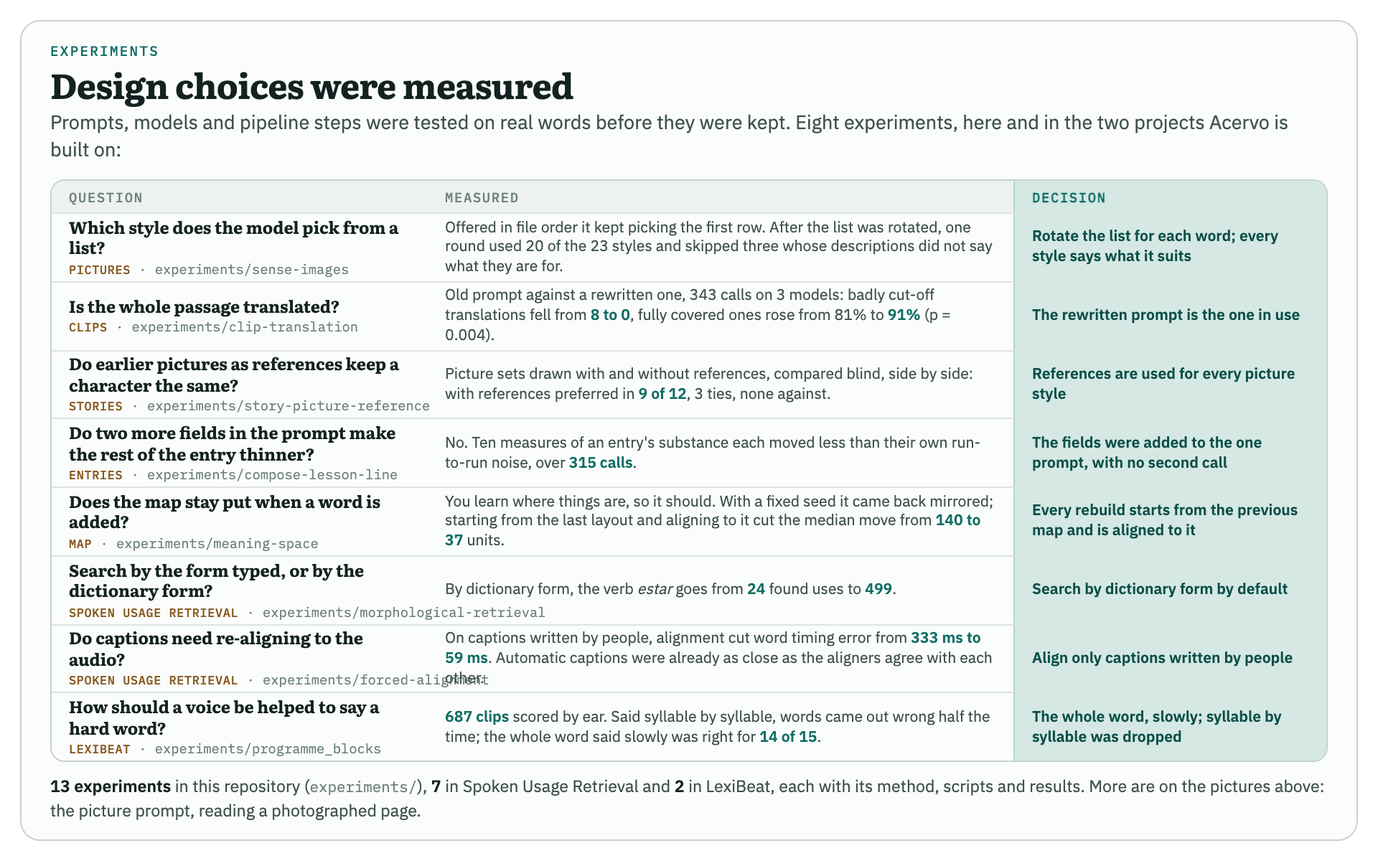
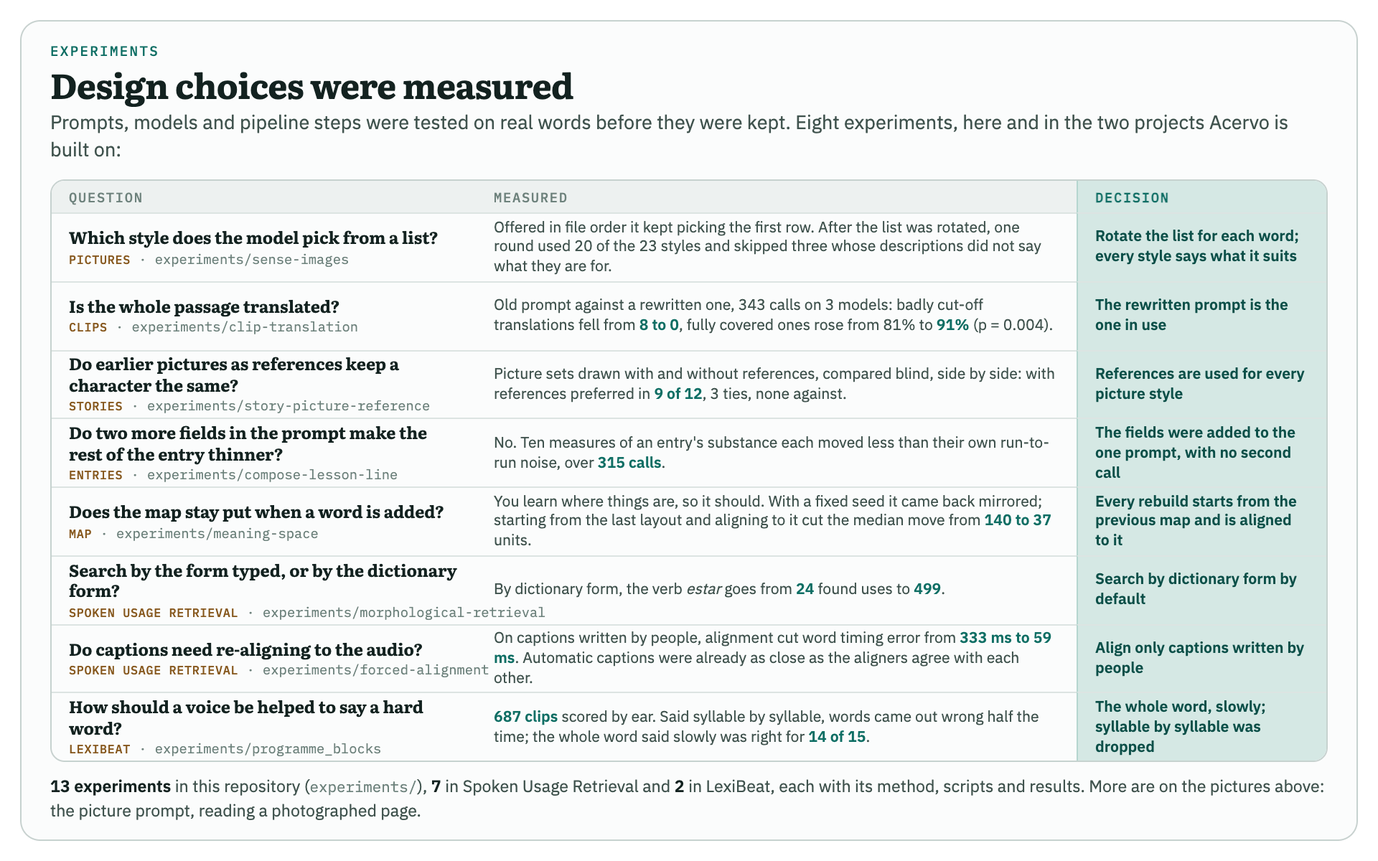
Tighten seven README pictures after a third review
- Lead: a narrower entry window, "Generated, then yours" restored with a neutral any-language-to-any-language mark instead of the author's language pairs.
- Anki: the settings capture and the closing note are gone; the cards are larger and the route is one vertical chain with cards out and reviews back.
- Map: the four steps of how it is made are back, with normal spacing, under a slightly shorter whole-map inset.
- Experiments: a narrower decision column, so no experiment path overflows.
- Photo drops the sentence about thresholds; loop rebalances its two text columns; the server diagram draws its device arrows in the style of the others.

diff --git a/assets/pictures/anki.html b/assets/pictures/anki.html
@@ -2,7 +2,7 @@
 <!--
   Source of anki.png. shots/anki-front.png and shots/anki-back.png are one card rendered by
   scripts/preview_anki_cards.py from anki/manifest.json, which holds one of the owner's words as
-  the server would send it. shots/anki-settings.png is Settings, Anki. The diagram follows
+  the server would send it. The diagram follows
   docs/features/anki.md.
   Render with capture.mjs --compose anki.
 -->
@@ -12,6 +12,17 @@
 <meta name="picture-size" content="960x600">
 <title>Anki cards</title>
 <link rel="stylesheet" href="style.css">
+<style>
+.tri { display: flex; flex-direction: column; gap: 8px; padding: 12px; }
+.tri .b { background: var(--surface); border: 1px solid var(--rule); border-radius: 7px; padding: 7px 10px 8px; font-size: 11px; line-height: 1.34; color: var(--ink-2); }
+.tri .b b { display: block; font-size: 12.4px; color: var(--ink); font-weight: 600; }
+.tri .b.top { border-color: var(--core); }
+.legs { display: flex; gap: 12px; padding: 0 4px; }
+.legs > div { flex: 1 1 0; display: flex; gap: 8px; align-items: flex-start; font-size: 11.2px; line-height: 1.36; color: #0B4F48; }
+.legs.one > div { align-items: center; }
+.legs b { color: #083E38; font-weight: 600; }
+.legs .arrow { align-self: flex-start; font-size: 20px; }
+</style>
 </head>
 <body>
 <div class="frame">
@@ -21,22 +32,21 @@
     <span class="sub">Cards are built from your entries and sent to Anki a minute after you stop editing. You review in any Anki app; how well you know each word comes back.</span>
   </div>
   <div class="main">
-    <div class="col" style="gap: 6px; width: 190px"><span class="label">Front</span><div class="device" style="width: 190px"><img src="shots/anki-front.png" alt=""></div></div>
-    <div class="col" style="gap: 6px; width: 190px"><span class="label">Back</span><div class="device" style="width: 190px"><img src="shots/anki-back.png" alt=""></div></div>
-    <div class="col grow" style="gap: 11px">
+    <div class="col" style="gap: 6px; width: 214px"><span class="label">Front</span><div class="device" style="width: 214px"><img src="shots/anki-front.png" alt=""></div></div>
+    <div class="col" style="gap: 6px; width: 214px"><span class="label">Back</span><div class="device" style="width: 214px"><img src="shots/anki-back.png" alt=""></div></div>
+    <div class="col grow" style="gap: 8px">
       <span class="label">How the cards travel</span>
-      <div class="lane server">
-        <div class="flow">
-          <div class="b"><b>Acervo</b>your entries, pictures and recordings</div>
-          <span class="a">→<br>←</span>
-          <div class="b"><b>Anki sync server</b>Anki's own, running beside Acervo on your machine</div>
-          <span class="a">⇄</span>
-          <div class="b"><b>Anki on your phone or tablet</b>syncs as it always does</div>
+      <div class="lane server tri">
+        <div class="b top"><b>Acervo</b>your entries, pictures and recordings</div>
+        <div class="legs">
+          <div><span class="arrow">↓</span><span><b>Cards out.</b> A card for each meaning, with its sentence, picture and recordings, updated a minute after the entry changes.</span></div>
+          <div><span class="arrow">↑</span><span><b>Reviews back.</b> Every hour, Anki's memory of each card, so the word list can show which words are hardest.</span></div>
         </div>
-        <div style="margin-top: 7px; font-size: 11.2px; color: #0B4F48"><b>→ Cards out:</b> a card for each meaning, with its sentence, picture and recordings, updated when the entry changes.<br><b>← Reviews back:</b> every hour, Anki's memory state for each card, so the word list can show which words are hardest.</div>
+        <div class="b"><b>Anki sync server</b>Anki's own, running beside Acervo on your machine</div>
+        <div class="legs one"><div><span class="arrow" style="transform: rotate(90deg)">⇄</span><span>Anki syncs as it always does.</span></div></div>
+        <div class="b"><b>Anki on your phone or tablet</b>where you review</div>
       </div>
-      <div class="win crop" style="height: 176px"><img src="shots/anki-settings.png" style="width: 560px; margin: -122px 0 0 -30px" alt=""></div>
-      <div class="note">Content goes one way and statistics the other, never both: your review progress is never touched, and Anki never edits an entry.</div>
+      <div style="font-size: 11.6px; color: var(--ink-2)">Content goes one way and statistics the other: your review progress is never touched, and Anki never edits an entry.</div>
     </div>
   </div>
   <div class="foot">Scheduling stays with Anki and its FSRS scheduler. No desktop needs to be running: the server keeps the cards in step by itself.</div>

diff --git a/assets/pictures/word.html b/assets/pictures/word.html
@@ -1,7 +1,7 @@
 <!doctype html>
 <!--
-  Source of word.png. shots/word-window.png is the application on one of the owner's words, in a narrow window, with
-  the picture drawn a little smaller than the application draws it and the search row cropped off;
+  Source of word.png. shots/word-window.png is the application on one of the owner's words, in a window narrower than the application's wide layout expects, with
+  the picture drawn a little smaller than the application draws it which is the layout a narrow window gets, without the search row;
   shots/word-list.png is the list behind it. The tiles are the pictures of the word's three senses
   with the emoji the entry gives each, the style each was drawn in, and a one-word label added
   here (the entry has none for this word). The experiment counts are the rows of
@@ -16,14 +16,15 @@
 <title>A dictionary of your own words</title>
 <link rel="stylesheet" href="style.css">
 <style>
-.stack { flex: none; position: relative; width: 540px; }
-.langs { display: flex; flex-wrap: wrap; gap: 4px; margin-bottom: 6px; }
+.stack { flex: none; position: relative; width: 478px; }
+.langs { display: flex; align-items: center; gap: 7px; margin-bottom: 7px; }
+.langs b { color: var(--core); }
 .langs span { background: var(--surface); border: 1px solid #B5D6CF; border-radius: 20px; padding: 1px 7px; font-size: 10.4px; white-space: nowrap; color: #083E38; }
 .stack .back { position: absolute; left: 0; top: 30px; width: 300px; height: 300px; }
 .stack .back img { width: 440px; max-width: none; }
-.stack .front { position: absolute; left: 126px; top: 0; width: 414px; box-shadow: 0 2px 4px rgba(19,34,32,.10), 0 16px 34px -14px rgba(19,34,32,.55); }
-.stack .front .clip { height: 378px; overflow: hidden; }
-.stack .front .clip img { width: 414px; margin-top: -31px; }
+.stack .front { position: absolute; left: 126px; top: 0; width: 352px; box-shadow: 0 2px 4px rgba(19,34,32,.10), 0 16px 34px -14px rgba(19,34,32,.55); }
+.stack .front .clip { height: 409px; overflow: hidden; }
+.stack .front .clip img { width: 352px; margin-top: 0; }
 .m3 { flex: 1 1 0; min-width: 0; }
 .m3 .sense { margin-top: 5px; font-size: 8.8px; white-space: nowrap; }
 .m3 .g { font: 400 10.6px/1.3 var(--serif); color: var(--ink); margin-top: 2px; }
@@ -42,13 +43,13 @@
       <div class="win front crop"><div class="bar"><i></i><i></i><i></i><span>Acervo</span></div><div class="clip"><img src="shots/word-window.png" alt=""></div></div>
     </div>
     <div class="col grow" style="gap: 9px">
-      <span class="label">Three meanings, a picture for each</span>
+      <span class="label">Three meanings, and a picture for each</span>
       <div class="row" style="gap: 8px">
         <div class="m3"><span class="pic"><img src="shots/word-sense-1.png" alt=""><span class="hash">claymation</span></span><div class="sense">🔔 <span class="num">01</span> sound</div><div class="g">to ring, to go off</div></div>
         <div class="m3"><span class="pic"><img src="shots/word-sense-2.png" alt=""><span class="hash">manga-panel</span></span><div class="sense">🧠 <span class="num">02</span> memory</div><div class="g">to ring a bell, to sound familiar</div></div>
         <div class="m3"><span class="pic"><img src="shots/word-sense-3.png" alt=""><span class="hash">retro-futurism</span></span><div class="sense">💡 <span class="num">03</span> impression</div><div class="g">to sound, to seem</div></div>
       </div>
-      <div class="note fact"><span class="label">Any language to any other</span><div class="langs"><span>🇪🇸 Spanish → English</span><span>🇬🇧 English → Russian</span><span>🇨🇳 Chinese → English</span></div>These three are the author's. Entries are written for your level and to your own standing instructions; you review, edit, or ask for changes in the chat.</div>
+      <div class="note fact"><span class="label">Generated, then yours</span><div class="langs"><span>🌐 any language</span><b>→</b><span>🌐 any language</span></div>All the content is generated: entries are written for your level and to your own standing instructions. You review each one, edit it, or ask for changes in the chat under it.</div>
       <div class="note"><span class="label">From the same words</span>
         <ul class="feat">
           <li>recordings</li><li>clips of native speech</li>

diff --git a/assets/pictures/sync.html b/assets/pictures/sync.html
@@ -14,7 +14,9 @@
 .b1 { background: var(--surface); border: 1px solid var(--rule); border-radius: 7px; padding: 6px 9px 7px; font-size: 10.8px; line-height: 1.34; color: var(--ink-2); }
 .b1 b { display: block; font-size: 11.8px; color: var(--ink); font-weight: 600; }
 .b1.main1 { width: 200px; border-color: var(--core); }
-.wires { display: flex; justify-content: space-around; font: 500 10.4px var(--mono); letter-spacing: .04em; color: var(--core); padding: 2px 0; }
+.wires { display: flex; justify-content: center; align-items: center; gap: 16px; font-size: 11.6px; color: var(--ink-2); }
+.wires span:first-child { width: 250px; text-align: right; }
+.wires span:last-child { width: 250px; }
 .dev { flex: 1 1 0; min-width: 0; min-height: 150px; border: 1px solid var(--rule); border-radius: 12px; background: var(--paper); padding: 12px 11px 11px; font-size: 10.8px; line-height: 1.34; color: var(--ink-2); display: flex; flex-direction: column; gap: 2px; }
 .dev b { font-size: 12.4px; color: var(--ink); font-weight: 600; }
 .dev .ic { font-size: 20px; line-height: 1.1; }
@@ -31,7 +33,7 @@
     <span class="sub">The server keeps the dictionary and does the generating. Each device holds a complete copy, so everything opens with no connection.</span>
   </div>
   <div class="main">
-    <div class="col grow" style="gap: 18px">
+    <div class="col grow" style="gap: 14px">
       <div class="row" style="gap: 12px; align-items: stretch">
         <div class="lane" style="width: 190px"><span class="label">Called by the server</span><div class="col" style="gap: 6px">
           <div class="b1"><b>Model providers</b>language, image and speech models, in an order you set</div>
@@ -48,7 +50,7 @@
           </div>
         </div>
       </div>
-      <div class="wires"><span>changes pulled as they happen ↓</span><span>↑ a save is one request, online only</span></div>
+      <div class="wires"><span>changes are pulled as they happen</span><span class="arrow" style="transform: rotate(90deg)">⇄</span><span>a save is one request, online only</span></div>
       <div class="row" style="gap: 12px">
         <div class="dev"><span class="ic">📱</span><b>Phone</b>installed web app, Android or iOS<span class="copy">complete copy</span></div>
         <div class="dev"><span class="ic">📲</span><b>Tablet</b>installed web app<span class="copy">complete copy</span></div>

diff --git a/assets/pictures/loop.html b/assets/pictures/loop.html
@@ -31,7 +31,7 @@ ul.feat.one li { padding-left: 13px; text-indent: -13px; }
       <div class="device back"><img src="shots/loops.png" alt=""></div>
       <div class="device front"><img src="shots/loop.png" alt=""></div>
     </div>
-    <div class="col" style="width: 262px; gap: 11px">
+    <div class="col" style="width: 222px; gap: 11px">
       <span class="label">Kinds of loop</span>
       <div class="note">
         <ul class="feat one" style="gap: 5px">
@@ -49,7 +49,7 @@ ul.feat.one li { padding-left: 13px; text-indent: -13px; }
       <div class="note"><span class="label">The words</span>You choose them: a topic, a selection from the list or the map, or a number of words.</div>
       <div class="note"><span class="label">The voice</span>Expressive on purpose, so a word sticks. Said three times, it is three recordings, each with its own direction from a language model.</div>
       <div class="note"><span class="label">The music</span>Generated new for every loop, in a style you pick or a surprise: a rhythmic background made to sit under speech. Keep one you like and reuse it.</div>
-      <div class="note fact"><span class="label">Chosen by ear, with scores</span><b>687 clips</b> scored 1 to 5 on a tablet: drill rhythms, examples, stories, commentary, voices mixing languages, ways to say a hard word. Stories and commentary scored highest (4.3, 4.6). Asked to speak “fast”, a voice is about 1.3× quicker; a fancier direction is as often slower, so speed is set by stretching the audio.<span class="exp">lexibeat · experiments/programme_blocks</span></div>
+      <div class="note fact"><span class="label">Chosen by ear, with scores</span><b>687 clips</b> scored 1 to 5 on a tablet: rhythms, examples, stories, commentary, voices. Stories and commentary scored highest (4.3, 4.6). Asked to speak “fast”, a voice is about 1.3× quicker; a fancier direction is as often slower, so speed is set by stretching the audio.<span class="exp">lexibeat · experiments/programme_blocks</span></div>
     </div>
   </div>
   <div class="foot">A translation is never drawn before it has been spoken, and dragging backwards puts it away again.</div>

diff --git a/assets/pictures/map.html b/assets/pictures/map.html
@@ -21,14 +21,15 @@
   </div>
   <div class="main">
     <div class="win" style="width: 560px; align-self: flex-start"><img src="shots/map.png" alt=""></div>
-    <div class="col grow" style="gap: 8px">
+    <div class="col grow" style="gap: 10px">
       <span class="label">The whole map: 1,457 meanings in named regions</span>
-      <div class="win crop" style="height: 224px"><img src="shots/map-whole.png" style="width: 800px; margin: -148px 0 0 -262px" alt=""></div>
-      <span class="label" style="margin-top: 2px">How it is made</span>
-      <div class="steps" style="gap: 4px">
-        <div><i>1</i><span><b>Embed each meaning</b>, not each word, with a multilingual encoder (multilingual-e5-small).</span></div>
+      <div class="win crop" style="height: 186px"><img src="shots/map-whole.png" style="width: 800px; margin: -178px 0 0 -262px" alt=""></div>
+      <span class="label" style="margin-top: 4px">How it is made</span>
+      <div class="steps" style="gap: 8px">
+        <div><i>1</i><span><b>Embed each meaning</b>, not each word: its definition and translations, with a multilingual encoder (multilingual-e5-small).</span></div>
         <div><i>2</i><span><b>Lay out</b> in two dimensions with UMAP.</span></div>
-        <div><i>3</i><span><b>Group</b> into about 8 regions and 30 neighbourhoods; a language model <b>names</b> them.</span></div>
+        <div><i>3</i><span><b>Group</b> the layout into about 8 regions and 30 neighbourhoods (Ward clustering).</span></div>
+        <div><i>4</i><span><b>Name</b> them with one language-model call.</span></div>
       </div>
     </div>
   </div>

diff --git a/assets/pictures/experiments.html b/assets/pictures/experiments.html
@@ -13,7 +13,7 @@
 <title>Design choices were measured</title>
 <link rel="stylesheet" href="style.css">
 <style>
-.t { flex: 1 1 auto; display: grid; grid-template-columns: 262px 1fr 218px; grid-template-rows: 22px repeat(8, 1fr); border: 1px solid var(--rule); border-radius: 10px; overflow: hidden; }
+.t { flex: 1 1 auto; display: grid; grid-template-columns: 296px 1fr 174px; grid-template-rows: 22px repeat(8, 1fr); border: 1px solid var(--rule); border-radius: 10px; overflow: hidden; }
 .t > div { padding: 0 12px; display: flex; flex-direction: column; justify-content: center; border-top: 1px solid var(--rule-soft); font-size: 10.6px; line-height: 1.32; min-width: 0; color: var(--ink-2); }
 .t > .th { border-top: 0; background: var(--paper); font: 500 9.4px var(--mono); letter-spacing: .09em; text-transform: uppercase; color: var(--ink-3); }
 .t .q { font: 700 11.6px/1.25 var(--serif); color: var(--ink); }

diff --git a/assets/pictures/photo.html b/assets/pictures/photo.html
@@ -51,7 +51,7 @@
         <div class="opt"><div class="q">The meaning of the tap</div><p class="yes">A fast language model: 1.0 s; right word or phrase 85% exactly, 98% nearly</p><p>A more accurate model: 4.4 s, too slow for a tap</p></div>
         <span class="exp" style="margin-top: 8px">experiments/photo-capture</span>
       </div>
-      <div style="font-size: 11.4px; color: var(--ink-2)">Thresholds were set before measuring: 13 photos and screenshots of Spanish text, 59 taps checked by hand.</div>
+      <div style="font-size: 11.4px; color: var(--ink-2)">Measured on 13 photos and screenshots of Spanish text, with 59 taps checked by hand.</div>
     </div>
   </div>
   <div class="foot">Where the words are comes from the OCR engine; what they mean comes from the language model. A multimodal model's boxes are approximate and its text can be invented, so it is given neither job.</div>

diff --git a/README.md b/README.md
@@ -2,7 +2,7 @@
 
 Acervo is a personal dictionary of the words you chose to learn. Paste a word, or the sentence you met it in: the entry is written for you, with a picture for each meaning, a recording, and clips of native speakers saying it. You read it before it is saved. From the same words it makes audio loops, illustrated stories and a map of what you know. It is self-hosted, and every device keeps the whole vocabulary, so it reads offline.
 
-![A dictionary of the words you chose, written and illustrated for you. The application in a macOS window, open on the Spanish verb "sonar" over the list of words: its pronunciation, its first definition, the translations "to ring, to sound, to go off", a picture of a ringing red telephone, the sentence it was met in with its translation, and a box to ask about the entry. Beside it, the word's three meanings, each with its emoji and a picture carrying the style it was drawn in: to ring, in claymation; to ring a bell, as a manga panel; to seem, in retro-futurism. Everything in an entry is generated, so the dictionary can go from any language to any other, at your level; the author's are Spanish to English, English to Russian and Chinese to English. Entries follow your own standing instructions, and you review, edit, or ask for changes in the chat. From the same words: recordings, clips of native speech, audio loops, illustrated stories, a map of meanings, words from a photo, Anki cards, offline on every device. Measured in 13 experiments in this repository, 7 in Spoken Usage Retrieval, which finds the clips, and 2 in LexiBeat, which makes the loops.](assets/pictures/word.png)
+![A dictionary of the words you chose, written and illustrated for you. The application in a macOS window, open on the Spanish verb "sonar" over the list of words: its pronunciation, its first definition, the translations "to ring, to sound, to go off", a picture of a ringing red telephone, the sentence it was met in with its translation, and a box to ask about the entry. Beside it, the word's three meanings, each with its emoji and a picture carrying the style it was drawn in: to ring, in claymation; to ring a bell, as a manga panel; to seem, in retro-futurism. Everything in an entry is generated, so the dictionary can go from any language to any other, at your level. All the content is generated, to your own standing instructions, and you review each entry, edit it, or ask for changes in the chat under it. From the same words: recordings, clips of native speech, audio loops, illustrated stories, a map of meanings, words from a photo, Anki cards, offline on every device. Measured in 13 experiments in this repository, 7 in Spoken Usage Retrieval, which finds the clips, and 2 in LexiBeat, which makes the loops.](assets/pictures/word.png)
 
 No model is trained here. The work is in deciding where a model is trusted and where it is checked, and each of those decisions was measured: [`docs/ml.md`](docs/ml.md) is the tour, and [`experiments/`](experiments/README.md) holds the apparatus and the results.
 
@@ -14,7 +14,7 @@ Paste a sentence and the word is picked out of it; a word you already hold is re
 
 Or photograph a page and tap a word. An OCR engine says where the words are, a segmentation model says where the sentences end, and a fast language model says what the tapped word means in that sentence. See [photo capture](docs/features/photo-capture.md).
 
-![Photograph a page, tap a word, see what it means there. A phone showing a photographed book page with the word "otorgó" outlined and its sentence highlighted, and below it "otorgar: awarded, granted" with the whole sentence as it will be kept. How it works: take a photo; every word becomes tappable because the OCR engine returns each word with its outline; tap any word and its sentence is found; the meaning in that sentence appears in about a second, and Add keeps the word, the sentence and the photo. In the entry the sentence then carries the photo it came from, drawn here for the same page. Each part was chosen by experiment, with thresholds set before measuring, on 13 photos and screenshots of Spanish text with 59 taps checked by hand. Reading the page: Cloud Vision, chosen, put the right word under the tap 98% of the time and was tappable in 1.6 to 1.9 seconds; RapidOCR, a local model, 80% (68% on book photos) and 7.5 seconds. Finding the sentence: the SaT segmentation model, chosen, 98%; punctuation rules 69 to 74%. The meaning of the tap: a fast language model, chosen, in 1.0 second, right 85% exactly and 98% nearly; a more accurate one took 4.4 seconds.](assets/pictures/photo.png)
+![Photograph a page, tap a word, see what it means there. A phone showing a photographed book page with the word "otorgó" outlined and its sentence highlighted, and below it "otorgar: awarded, granted" with the whole sentence as it will be kept. How it works: take a photo; every word becomes tappable because the OCR engine returns each word with its outline; tap any word and its sentence is found; the meaning in that sentence appears in about a second, and Add keeps the word, the sentence and the photo. In the entry the sentence then carries the photo it came from, drawn here for the same page. Each part was chosen by experiment, on 13 photos and screenshots of Spanish text with 59 taps checked by hand. Reading the page: Cloud Vision, chosen, put the right word under the tap 98% of the time and was tappable in 1.6 to 1.9 seconds; RapidOCR, a local model, 80% (68% on book photos) and 7.5 seconds. Finding the sentence: the SaT segmentation model, chosen, 98%; punctuation rules 69 to 74%. The meaning of the tap: a fast language model, chosen, in 1.0 second, right 85% exactly and 98% nearly; a more accurate one took 4.4 seconds.](assets/pictures/photo.png)
 
 ## What is made around a word
 
@@ -44,7 +44,7 @@ A story is written around a handful of words, in a kind you pick or leave to cha
 
 Every meaning is embedded from its definition and translations, laid out in two dimensions, and grouped into regions that a model names. See [the meaning map](docs/features/meaning-map.md).
 
-![Every meaning you hold, laid out by what it means. The map zoomed in on "la deuda", joined to "el préstamo", "cobrar", "garpar", "la cuenta" and "el fondo", with a card giving its definition; and the whole map of 1,457 meanings with its named regions, such as "Dinero y justicia" and "Emociones y conflicto". How it is made: each meaning, not each word, is embedded with a multilingual encoder; UMAP lays the meanings out in two dimensions; they are grouped into about 8 regions and 30 neighbourhoods, which a language model names. You learn where things are on a map, so adding a word should not move the rest: with a fixed seed it still moved, and starting from the last layout and aligning to it cut the median move after one edit from 140 to 37 units.](assets/pictures/map.png)
+![Every meaning you hold, laid out by what it means. The map zoomed in on "la deuda", joined to "el préstamo", "cobrar", "garpar", "la cuenta" and "el fondo", with a card giving its definition; and the whole map of 1,457 meanings with its named regions, such as "Dinero y justicia" and "Emociones y conflicto". How it is made: each meaning, not each word, is embedded from its definition and translations with a multilingual encoder; UMAP lays the meanings out in two dimensions; the layout is grouped into about 8 regions and 30 neighbourhoods; one language-model call names them. You learn where things are on a map, so adding a word should not move the rest: with a fixed seed it still moved, and starting from the last layout and aligning to it cut the median move after one edit from 140 to 37 units.](assets/pictures/map.png)
 
 ## One server, every device
 
@@ -60,7 +60,7 @@ The interface is one web app: open it in a browser, install it on Android and iO
 
 Cards are built from your entries and kept up to date for you: a minute after you stop editing, the changed words are sent to an Anki sync server running beside Acervo, and your phone or tablet picks them up the next time Anki syncs. Every hour the review state comes back, so the word list can show which words are hardest. Content goes one way and statistics the other. See [Anki](docs/features/anki.md).
 
-![Your words as Anki cards, made and kept up to date for you. The front and the back of one card for "sonar": the word in its sentence, then "to ring", the definition, the sentence with its translation, and the picture. Beside them, how the cards travel: Acervo sends cards to Anki's own sync server on your machine, Anki on your phone or tablet syncs with it as usual, and reviews come back every hour. Below, the Anki page in Settings with the switch "Send changes to Anki". Scheduling stays with Anki, and no desktop needs to be running.](assets/pictures/anki.png)
+![Your words as Anki cards, made and kept up to date for you. The front and the back of one card for "sonar": the word in its sentence, then "to ring", the definition, the sentence with its translation, and the picture. Beside them, how the cards travel: Acervo sends cards to Anki's own sync server on your machine, Anki on your phone or tablet syncs with it as usual, and reviews come back every hour. Scheduling stays with Anki, and no desktop needs to be running.](assets/pictures/anki.png)
 
 ## How an entry is made
 

diff --git a/assets/pictures/README.md b/assets/pictures/README.md
@@ -70,7 +70,7 @@ Needs Google Chrome (Playwright's own Chromium cannot decode the clips' video) a
 | `photo.png` | A photographed page with a word tapped, and the same sentence drawn as an entry shows it | `photo`, `photo-thumb.jpg` (cut from the test photo) |
 | `devices.png` | One word on a phone, a tablet and a desktop | `word-phone`, `word-tablet`, `word` |
 | `pipeline.png` | How an entry is made, as a diagram, with the Activity page and one real job's log lines | `activity` |
-| `anki.png` | One Anki card, front and back, and how cards and reviews travel | `anki-front`, `anki-back`, `anki-settings` |
+| `anki.png` | One Anki card, front and back, and how cards and reviews travel | `anki-front`, `anki-back` |
 | `sync.png` | The server, what runs beside it, and the devices: a drawn diagram | none |
 | `experiments.png` | Eight experiments, three of them from the two related repositories | none |
 
